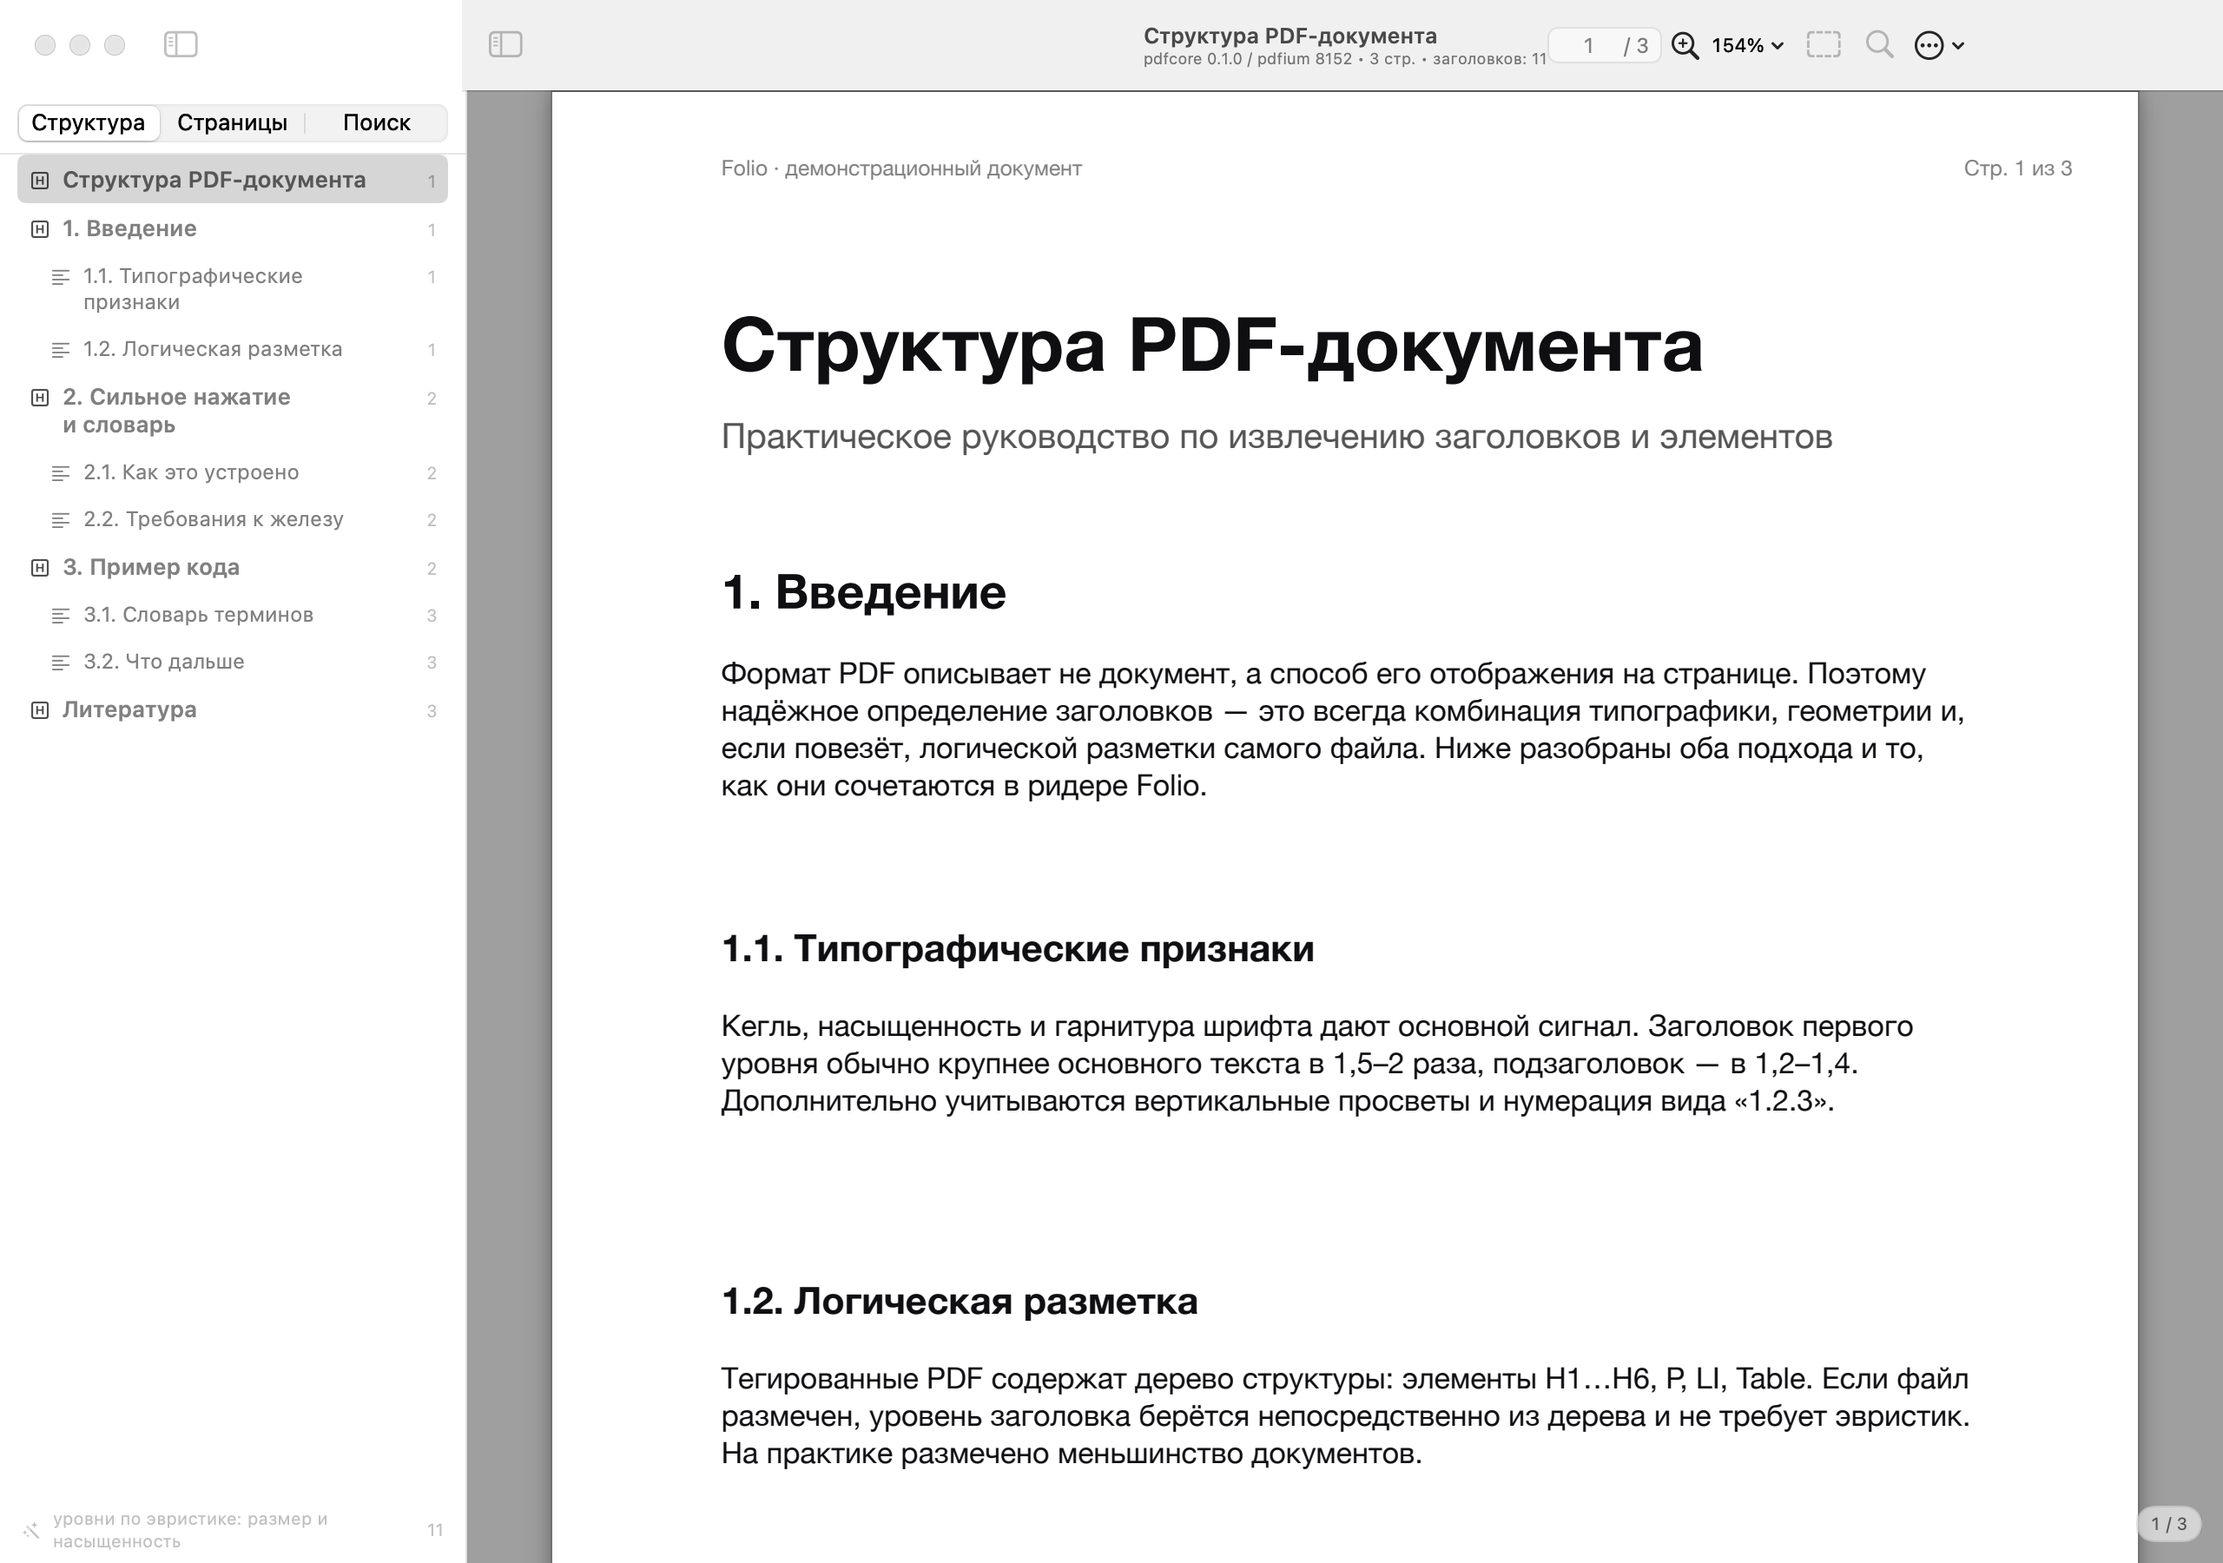
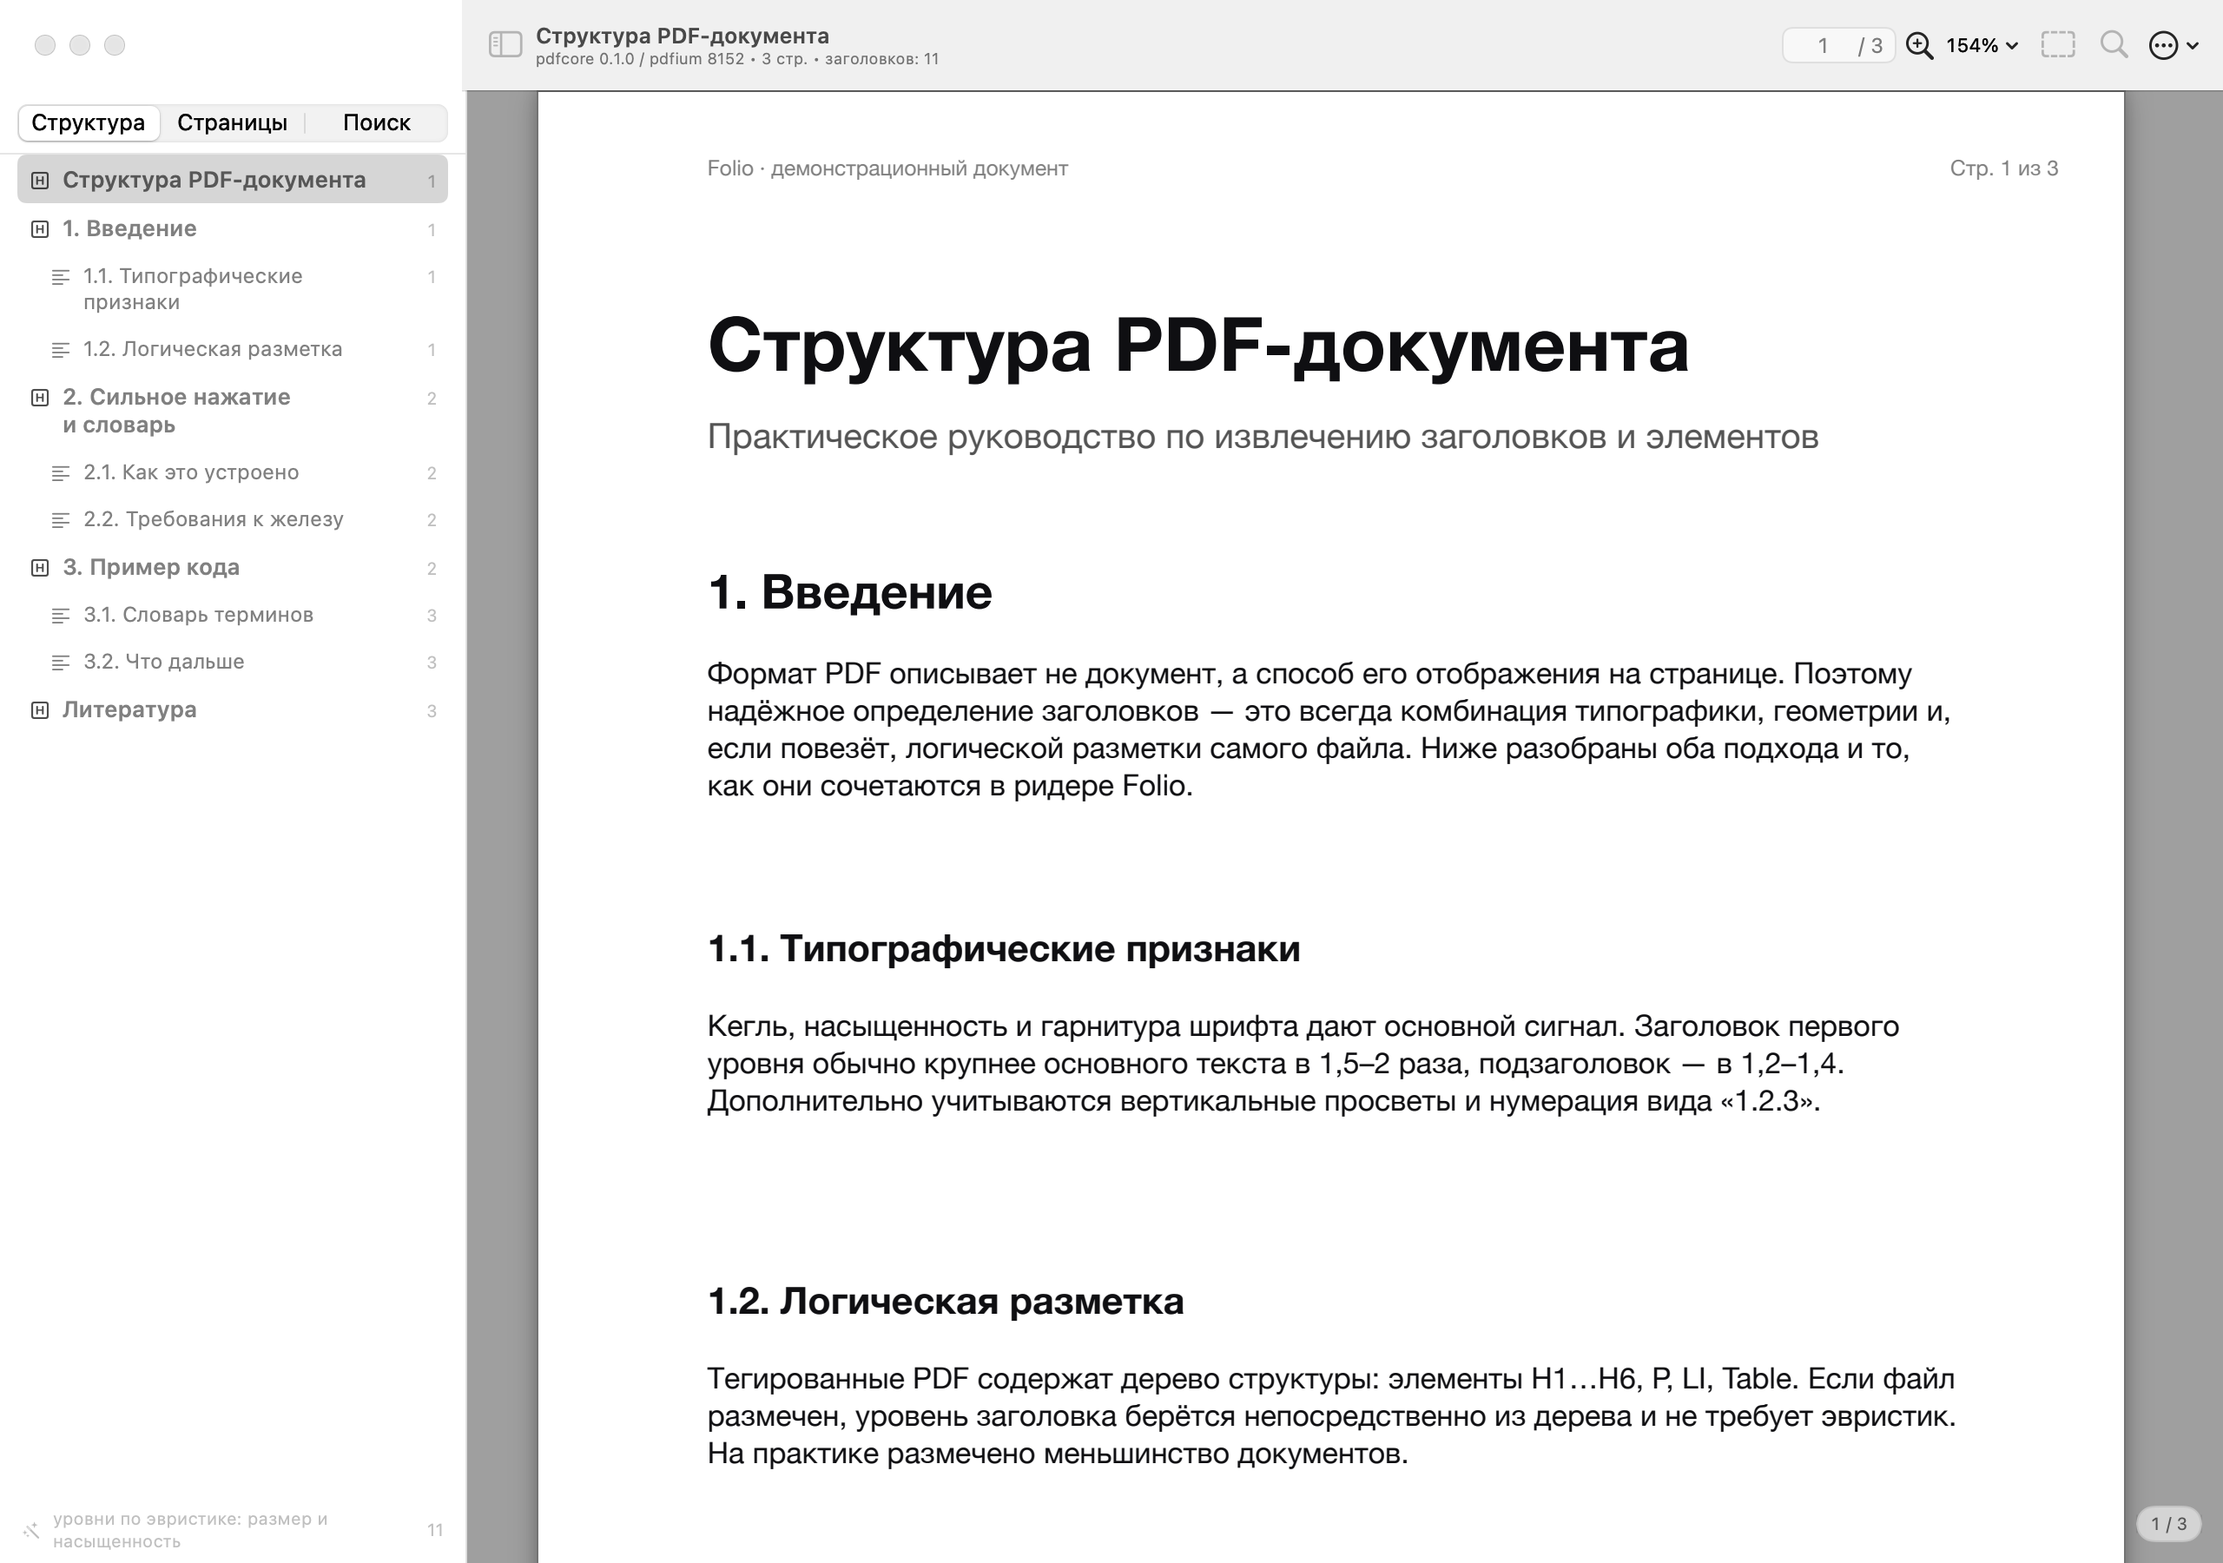
Toolbar: one sidebar toggle, title on the left, actions pinned right
- remove SwiftUI's automatic sidebar toggle: it stayed next to our own button,
  so the toolbar showed two identical icons. `.toolbar(removing: .sidebarToggle)`
  is ignored when the NavigationSplitView declares its own toolbar (verified by
  dumping NSToolbar.items at runtime), so WindowChrome removes the system item
  at the AppKit level and re-checks after visibility changes and window activation
- the single custom toggle is now always visible (also when the sidebar is
  collapsed, where the system button used to be the only way back)
- document title moved from the centered principal slot to the leading edge
- a flexible spacer in the principal slot pins page number, zoom, layout,
  search and overflow actions to the trailing edge of the toolbar (without it
  SwiftUI packed them right after the title, 484 pt short of the edge)
- snapshot harness logs the resulting NSToolbar items so duplicates and item
  frames are visible in the acceptance log
- docs: refresh the screenshots with the new toolbar, README mentions the layout

diff --git a/app/Sources/Folio/UI/RootView.swift b/app/Sources/Folio/UI/RootView.swift
@@ -19,9 +19,11 @@ struct RootView: View {
                 }
                 DetailView(model: model)
             }
+            // Системную кнопку панели убирает WindowChrome: `.toolbar(removing:)`
+            // на `NavigationSplitView` со своим toolbar не срабатывает.
+            .toolbar(removing: .sidebarToggle)
         }
         .navigationSplitViewStyle(.balanced)
-        .toolbar(removing: .sidebarToggle)
         .navigationTitle(model.documentTitle)
         .navigationSubtitle(model.statusText)
         .toolbar { toolbarContent }
@@ -37,8 +39,12 @@ struct RootView: View {
                     .allowsHitTesting(false)
             }
         }
-        .onAppear { model.backingScale = displayScale }
+        .onAppear {
+            model.backingScale = displayScale
+            WindowChrome.suppressSoon()
+        }
         .onChange(of: displayScale) { _, scale in model.backingScale = scale }
+        .onChange(of: model.columnVisibility) { _, _ in WindowChrome.suppressSoon() }
         .alert("Не удалось открыть документ",
                isPresented: Binding(get: { model.errorMessage != nil },
                                     set: { if !$0 { model.errorMessage = nil } })) {
@@ -59,23 +65,27 @@ struct RootView: View {
 
     @ToolbarContentBuilder
     private var toolbarContent: some ToolbarContent {
-        // Когда панель свёрнута, SwiftUI сам показывает кнопку возврата в titlebar —
-        // нашу не дублируем.
-        if model.columnVisibility != .detailOnly {
-            ToolbarItem(placement: .navigation) {
-                Button {
-                    toggleSidebar()
-                } label: {
-                    Image(systemName: "sidebar.left")
-                }
-                .help("Скрыть боковую панель (⧉)")
+        // Левая группа: единственная кнопка боковой панели, сразу за ней — название книги.
+        ToolbarItem(placement: .navigation) {
+            Button {
+                toggleSidebar()
+            } label: {
+                Image(systemName: "sidebar.left")
             }
+            .help(model.columnVisibility == .detailOnly ? "Показать боковую панель (⧉)" : "Скрыть боковую панель (⧉)")
         }
 
-        ToolbarItem(placement: .principal) {
+        ToolbarItem(placement: .navigation) {
             titleView
         }
 
+        // Гибкая пружина в центре: без неё SwiftUI пакует правую группу сразу
+        // за заголовком, а не прижимает её к краю тулбара.
+        ToolbarItem(placement: .principal) {
+            Spacer(minLength: 0)
+        }
+
+        // Правая группа: прижата к крайнему правому углу тулбара.
         ToolbarItemGroup(placement: .primaryAction) {
             PageIndicatorField(model: model)
             zoomMenu
@@ -105,7 +115,8 @@ struct RootView: View {
                     .foregroundStyle(.secondary)
             }
         }
-        .frame(maxWidth: 460)
+        .frame(maxWidth: 420, alignment: .leading)
+        .lineLimit(1)
         .help("\(model.documentTitle) — \(model.statusText)")
     }
 
@@ -192,6 +203,8 @@ struct RootView: View {
         withAnimation(.easeInOut(duration: 0.22)) {
             model.columnVisibility = (model.columnVisibility == .detailOnly) ? .all : .detailOnly
         }
+        // SwiftUI пересобирает тулбар после смены видимости — чистим системную кнопку ещё раз.
+        WindowChrome.suppressSoon()
     }
 
     private func handleDrop(_ providers: [NSItemProvider]) -> Bool {

diff --git a/app/Sources/Folio/UI/WindowChrome.swift b/app/Sources/Folio/UI/WindowChrome.swift
@@ -1,0 +1,64 @@
+import AppKit
+
+/// Приведение системного хрома окна к виду, который нужен ридеру.
+///
+/// 1. SwiftUI сам добавляет в тулбар кнопку боковой панели
+///    (`com.apple.SwiftUI.navigationSplitView.toggleSidebar`). Модификатор
+///    `.toolbar(removing: .sidebarToggle)` при объявленном своём toolbar на
+///    `NavigationSplitView` не срабатывает (проверено дампом `NSToolbar.items`),
+///    поэтому системную кнопку убираем на уровне AppKit — иначе в тулбаре две
+///    кнопки панели: наша и системная.
+@MainActor
+enum WindowChrome {
+    private static let systemSidebarToggleIdentifier = "com.apple.SwiftUI.navigationSplitView.toggleSidebar"
+    private static var observers: [NSObjectProtocol] = []
+    private static var installed = false
+
+    /// Подписка на события, после которых SwiftUI может пересобрать тулбар.
+    static func install() {
+        guard !installed else { return }
+        installed = true
+        let center = NotificationCenter.default
+        observers.append(center.addObserver(forName: NSWindow.didBecomeKeyNotification,
+                                            object: nil, queue: .main) { notification in
+            let window = notification.object as? NSWindow
+            MainActor.assumeIsolated {
+                if let window { suppress(in: window) }
+            }
+        })
+        observers.append(center.addObserver(forName: NSWindow.didBecomeMainNotification,
+                                            object: nil, queue: .main) { notification in
+            let window = notification.object as? NSWindow
+            MainActor.assumeIsolated {
+                if let window { suppress(in: window) }
+            }
+        })
+    }
+
+    /// Убирает кнопку сейчас и ещё раз на следующем тике runloop: SwiftUI
+    /// пересобирает тулбар после смены видимости панели.
+    static func suppressSoon() {
+        if let window = inKeyWindow() { suppress(in: window) }
+        Task { @MainActor in
+            if let window = inKeyWindow() { suppress(in: window) }
+        }
+    }
+
+    static func suppress(in window: NSWindow) {
+        guard let toolbar = window.toolbar else { return }
+        var removed = 0
+        while let index = toolbar.items.firstIndex(where: {
+            $0.itemIdentifier.rawValue == systemSidebarToggleIdentifier
+        }) {
+            toolbar.removeItem(at: index)
+            removed += 1
+        }
+        if removed > 0 {
+            folioLog("toolbar: убрал системную кнопку боковой панели (\(removed) шт.)")
+        }
+    }
+
+    private static func inKeyWindow() -> NSWindow? {
+        NSApp.keyWindow ?? NSApp.mainWindow ?? NSApp.windows.first { $0.isVisible }
+    }
+}

diff --git a/app/Sources/Folio/App/SnapshotRunner.swift b/app/Sources/Folio/App/SnapshotRunner.swift
@@ -154,6 +154,9 @@ enum SnapshotRunner {
         pump(0.5)
         model.backingScale = window.backingScaleFactor
         folioLog("snapshot: окно \(Int(window.frame.width))×\(Int(window.frame.height)) px, backingScale=\(window.backingScaleFactor)")
+        WindowChrome.suppressSoon()
+        pump(0.4)
+        logToolbar(window: window, label: "после чистки хрома")
 
         model.open(url: options.pdf)
         let ready = waitUntil(timeout: 25) { model.snapshotReady }
@@ -259,6 +262,7 @@ enum SnapshotRunner {
             runDocumentSwitchTest(model: model, window: window, options: options, nextPdf: switchPdf)
         }
 
+        logToolbar(window: window, label: "финал")
         writeSummary(model: model, options: options, extra: [:])
         folioLog("snapshot: ФАЙЛЫ В \(options.outDir.path): \(listFiles(options.outDir).joined(separator: ", "))")
         folioLog("snapshot: готово, чистый выход с кодом 0")
@@ -446,6 +450,28 @@ enum SnapshotRunner {
         }
         model.translation.isPanelPresented = false
         pump(0.6)
+    }
+
+    /// Диагностика тулбара: какие элементы реально стоят в `NSToolbar` и где они.
+    /// Нужна, чтобы ловить дубли вроде двух кнопок боковой панели.
+    private static func logToolbar(window: NSWindow, label: String) {
+        guard let toolbar = window.toolbar else {
+            folioLog("snapshot: toolbar (\(label)) — нет тулбара")
+            return
+        }
+        let items = toolbar.items.map { item -> String in
+            var parts = [item.itemIdentifier.rawValue]
+            if !item.label.isEmpty { parts.append("label=«\(item.label)»") }
+            if let view = item.view {
+                parts.append("view=\(type(of: view))")
+                let rect = view.convert(view.bounds, to: nil)
+                parts.append("frame=(x=\(Int(rect.minX)) y=\(Int(rect.minY)) w=\(Int(rect.width)) h=\(Int(rect.height)))")
+            }
+            if !item.isVisible { parts.append("hidden") }
+            return parts.joined(separator: " ")
+        }
+        let bounds = window.contentView?.superview?.bounds ?? .zero
+        folioLog("snapshot: toolbar (\(label)) \(items.count) items, chrome w=\(Int(bounds.width)) = \(items.joined(separator: " | "))")
     }
 
     // MARK: - Проверки кэша/консистентности

diff --git a/app/Sources/Folio/App/FolioApp.swift b/app/Sources/Folio/App/FolioApp.swift
@@ -49,6 +49,8 @@ final class AppDelegate: NSObject, NSApplicationDelegate {
             return
         }
         installEventMonitors()
+        WindowChrome.install()
+        WindowChrome.suppressSoon()
         NSApp.activate(ignoringOtherApps: true)
     }
 

diff --git a/README.md b/README.md
@@ -51,7 +51,11 @@ and exact word boxes:
   `kind/level/confidence` labels, and a per-word box mode that proves the overlay is aligned
   with the actual glyphs.
 - **Export structure to JSON** for debugging and downstream pipelines.
-- Light/dark appearance, unified toolbar, vibrant sidebar, SF Symbols.
+- **Unified toolbar**: a single sidebar toggle, the document title on the left and the page
+  number, zoom, layout, search and overflow actions pinned to the trailing edge — no duplicated
+  sidebar buttons (SwiftUI's automatic toggle is removed through AppKit, see
+  [WindowChrome.swift](app/Sources/Folio/UI/WindowChrome.swift)).
+- Light/dark appearance, vibrant sidebar, SF Symbols.
 - Works even **without a built core** — falls back to a demo document and a banner, which is
   handy while developing the UI.
 
